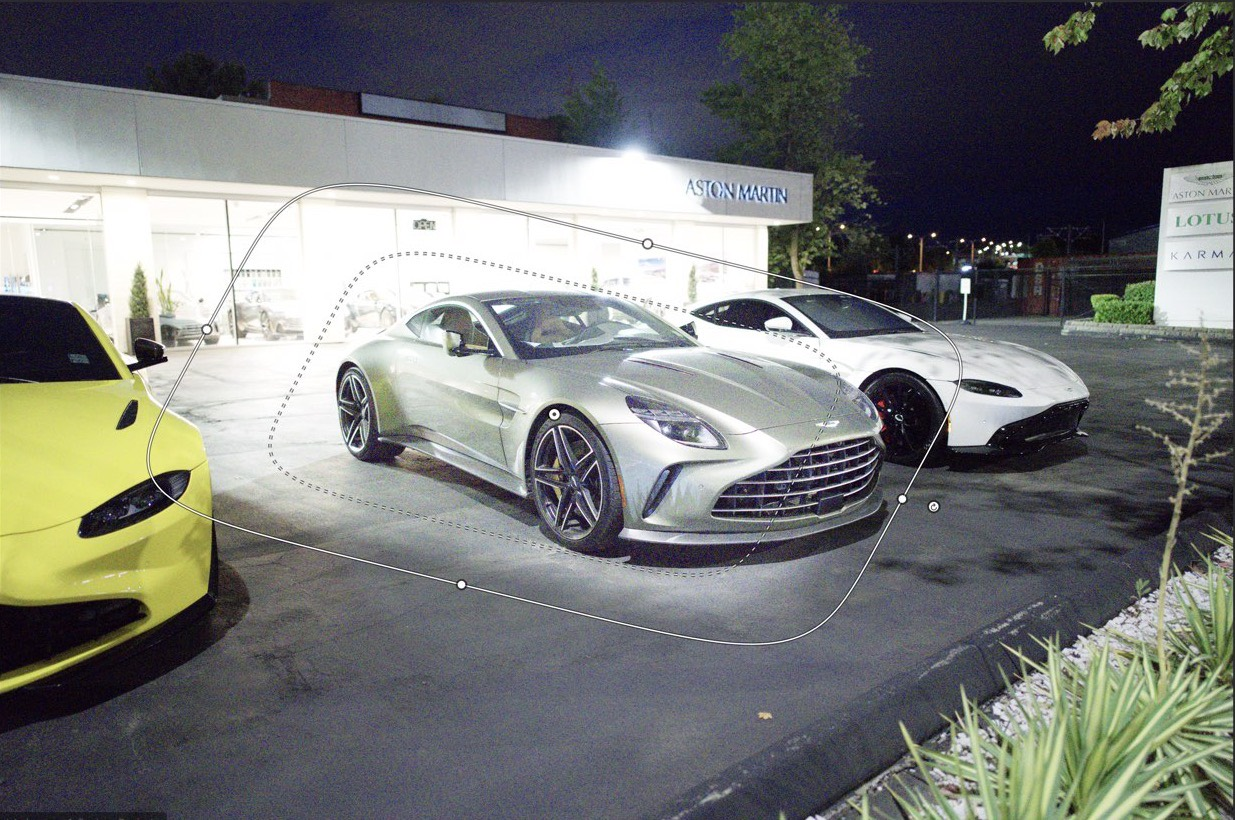
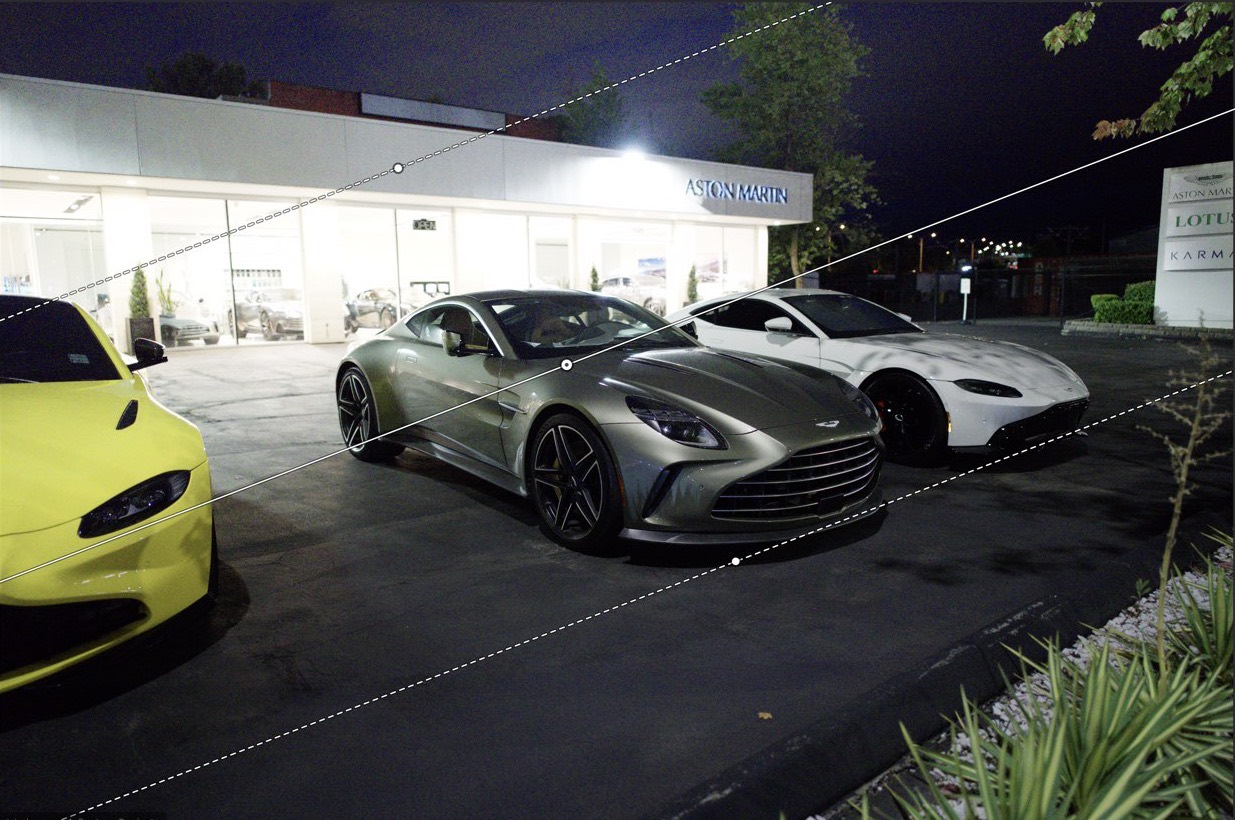
fix: hero preview leads with the straight-line linear mask, per the developer
The linear screenshot's dashed guides stay legible at phone sizes where the
radial's curve and six handles turn to noise. Mockup panel now mirrors that
session exactly — Linear active, local exposure at -1.60 EV, Centre X 0.46,
and no Feather row, since the app hides Feather for linear masks. The masks
section leads with the same frame; the radial render follows.

Claude-Session: https://claude.ai/code/session_01UMqff27ML3yWqoyisZBYoV

diff --git a/web/index.html b/web/index.html
@@ -50,7 +50,7 @@ try{var t=localStorage.getItem('orion-theme');if(t==='dark'||t==='light')documen
     <div class="mock__body">
       <div class="mock__canvas">
         <img id="mockimg" src="img/orion-hero-canvas.jpg" width="1235" height="820"
-             alt="Night photograph of three Aston Martins on a forecourt, open in Orion with a radial mask outlined over the silver car.">
+             alt="Night photograph of three Aston Martins on a forecourt, open in Orion with a linear gradient mask drawn across the frame as three dashed guide lines with endpoint handles.">
       </div>
       <aside class="mock__panel">
         <div class="mock__histo" aria-hidden="true">
@@ -104,11 +104,11 @@ try{var t=localStorage.getItem('orion-theme');if(t==='dark'||t==='light')documen
         </div>
 
         <p class="mock__sec">Local</p>
-        <div class="mock__seg" aria-hidden="true"><span>No mask</span><span>Linear</span><span class="mock__seg--on">Radial</span></div>
-        <div class="sl"><span class="sl__k">Exposure</span><span class="sl__v sl__v--hot">1.60 EV</span>
-          <div class="sl__track"><span class="sl__fill" style="left:50%;width:16%"></span><span class="sl__thumb" style="left:66%"></span></div></div>
-        <div class="sl"><span class="sl__k">Feather</span><span class="sl__v">0.30</span>
-          <div class="sl__track"><span class="sl__fill" style="left:0;width:30%"></span><span class="sl__thumb" style="left:30%"></span></div></div>
+        <div class="mock__seg" aria-hidden="true"><span>No mask</span><span class="mock__seg--on">Linear</span><span>Radial</span></div>
+        <div class="sl"><span class="sl__k">Exposure</span><span class="sl__v sl__v--hot">−1.60 EV</span>
+          <div class="sl__track"><span class="sl__fill" style="left:34%;width:16%"></span><span class="sl__thumb" style="left:34%"></span></div></div>
+        <div class="sl"><span class="sl__k">Centre X</span><span class="sl__v sl__v--hot">0.46</span>
+          <div class="sl__track"><span class="sl__thumb" style="left:46%"></span></div></div>
 
         <div class="mock__foot"><span>6,024 × 4,024</span><span class="mock__ms" id="mockms">9.3 ms</span></div>
       </aside>
@@ -138,21 +138,21 @@ try{var t=localStorage.getItem('orion-theme');if(t==='dark'||t==='light')documen
   <p class="body rev">Drag linear and radial gradients on the photograph itself. A mask stays on its subject through crop, rotation and straightening — and the export matches the preview.</p>
 
   <figure class="shot rev">
-    <img src="img/orion-mask-radial.jpg"
-         srcset="img/orion-mask-radial-900.jpg 900w, img/orion-mask-radial.jpg 1600w"
-         sizes="(max-width: 720px) 94vw, min(94vw, 1120px)"
-         width="1600" height="1000" loading="lazy" decoding="async"
-         alt="Orion editing a night photograph of three Aston Martins. A radial gradient mask is drawn over the silver car with axis and rotate handles; the Local panel reads Exposure 1.60 EV.">
-    <figcaption>Radial gradient over the silver car, +1.60 EV — a real render from the running app.</figcaption>
-  </figure>
-
-  <figure class="shot rev">
     <img src="img/orion-mask-linear.jpg"
          srcset="img/orion-mask-linear-900.jpg 900w, img/orion-mask-linear.jpg 1600w"
          sizes="(max-width: 720px) 94vw, min(94vw, 1120px)"
          width="1600" height="1000" loading="lazy" decoding="async"
-         alt="The same photograph with a linear gradient mask drawn across the frame as three guide lines with draggable endpoints; the Local panel reads Exposure −1.60 EV.">
+         alt="Orion editing a night photograph of three Aston Martins on a forecourt. A linear gradient mask is drawn across the frame with three dashed guide lines and draggable endpoint handles; the Local panel reads Exposure −1.60 EV.">
     <figcaption>Linear gradient, −1.60 EV. The side you didn’t touch stays untouched — measured to the bit.</figcaption>
+  </figure>
+
+  <figure class="shot rev">
+    <img src="img/orion-mask-radial.jpg"
+         srcset="img/orion-mask-radial-900.jpg 900w, img/orion-mask-radial.jpg 1600w"
+         sizes="(max-width: 720px) 94vw, min(94vw, 1120px)"
+         width="1600" height="1000" loading="lazy" decoding="async"
+         alt="The same photograph with a radial gradient mask drawn over the silver car with axis and rotate handles; the Local panel reads Exposure 1.60 EV.">
+    <figcaption>Radial gradient over the silver car, +1.60 EV — a real render from the running app.</figcaption>
   </figure>
 
   <p class="fn rev">Not built yet: brush, luminance-range and subject masks. Nothing on this page pretends otherwise.</p>
